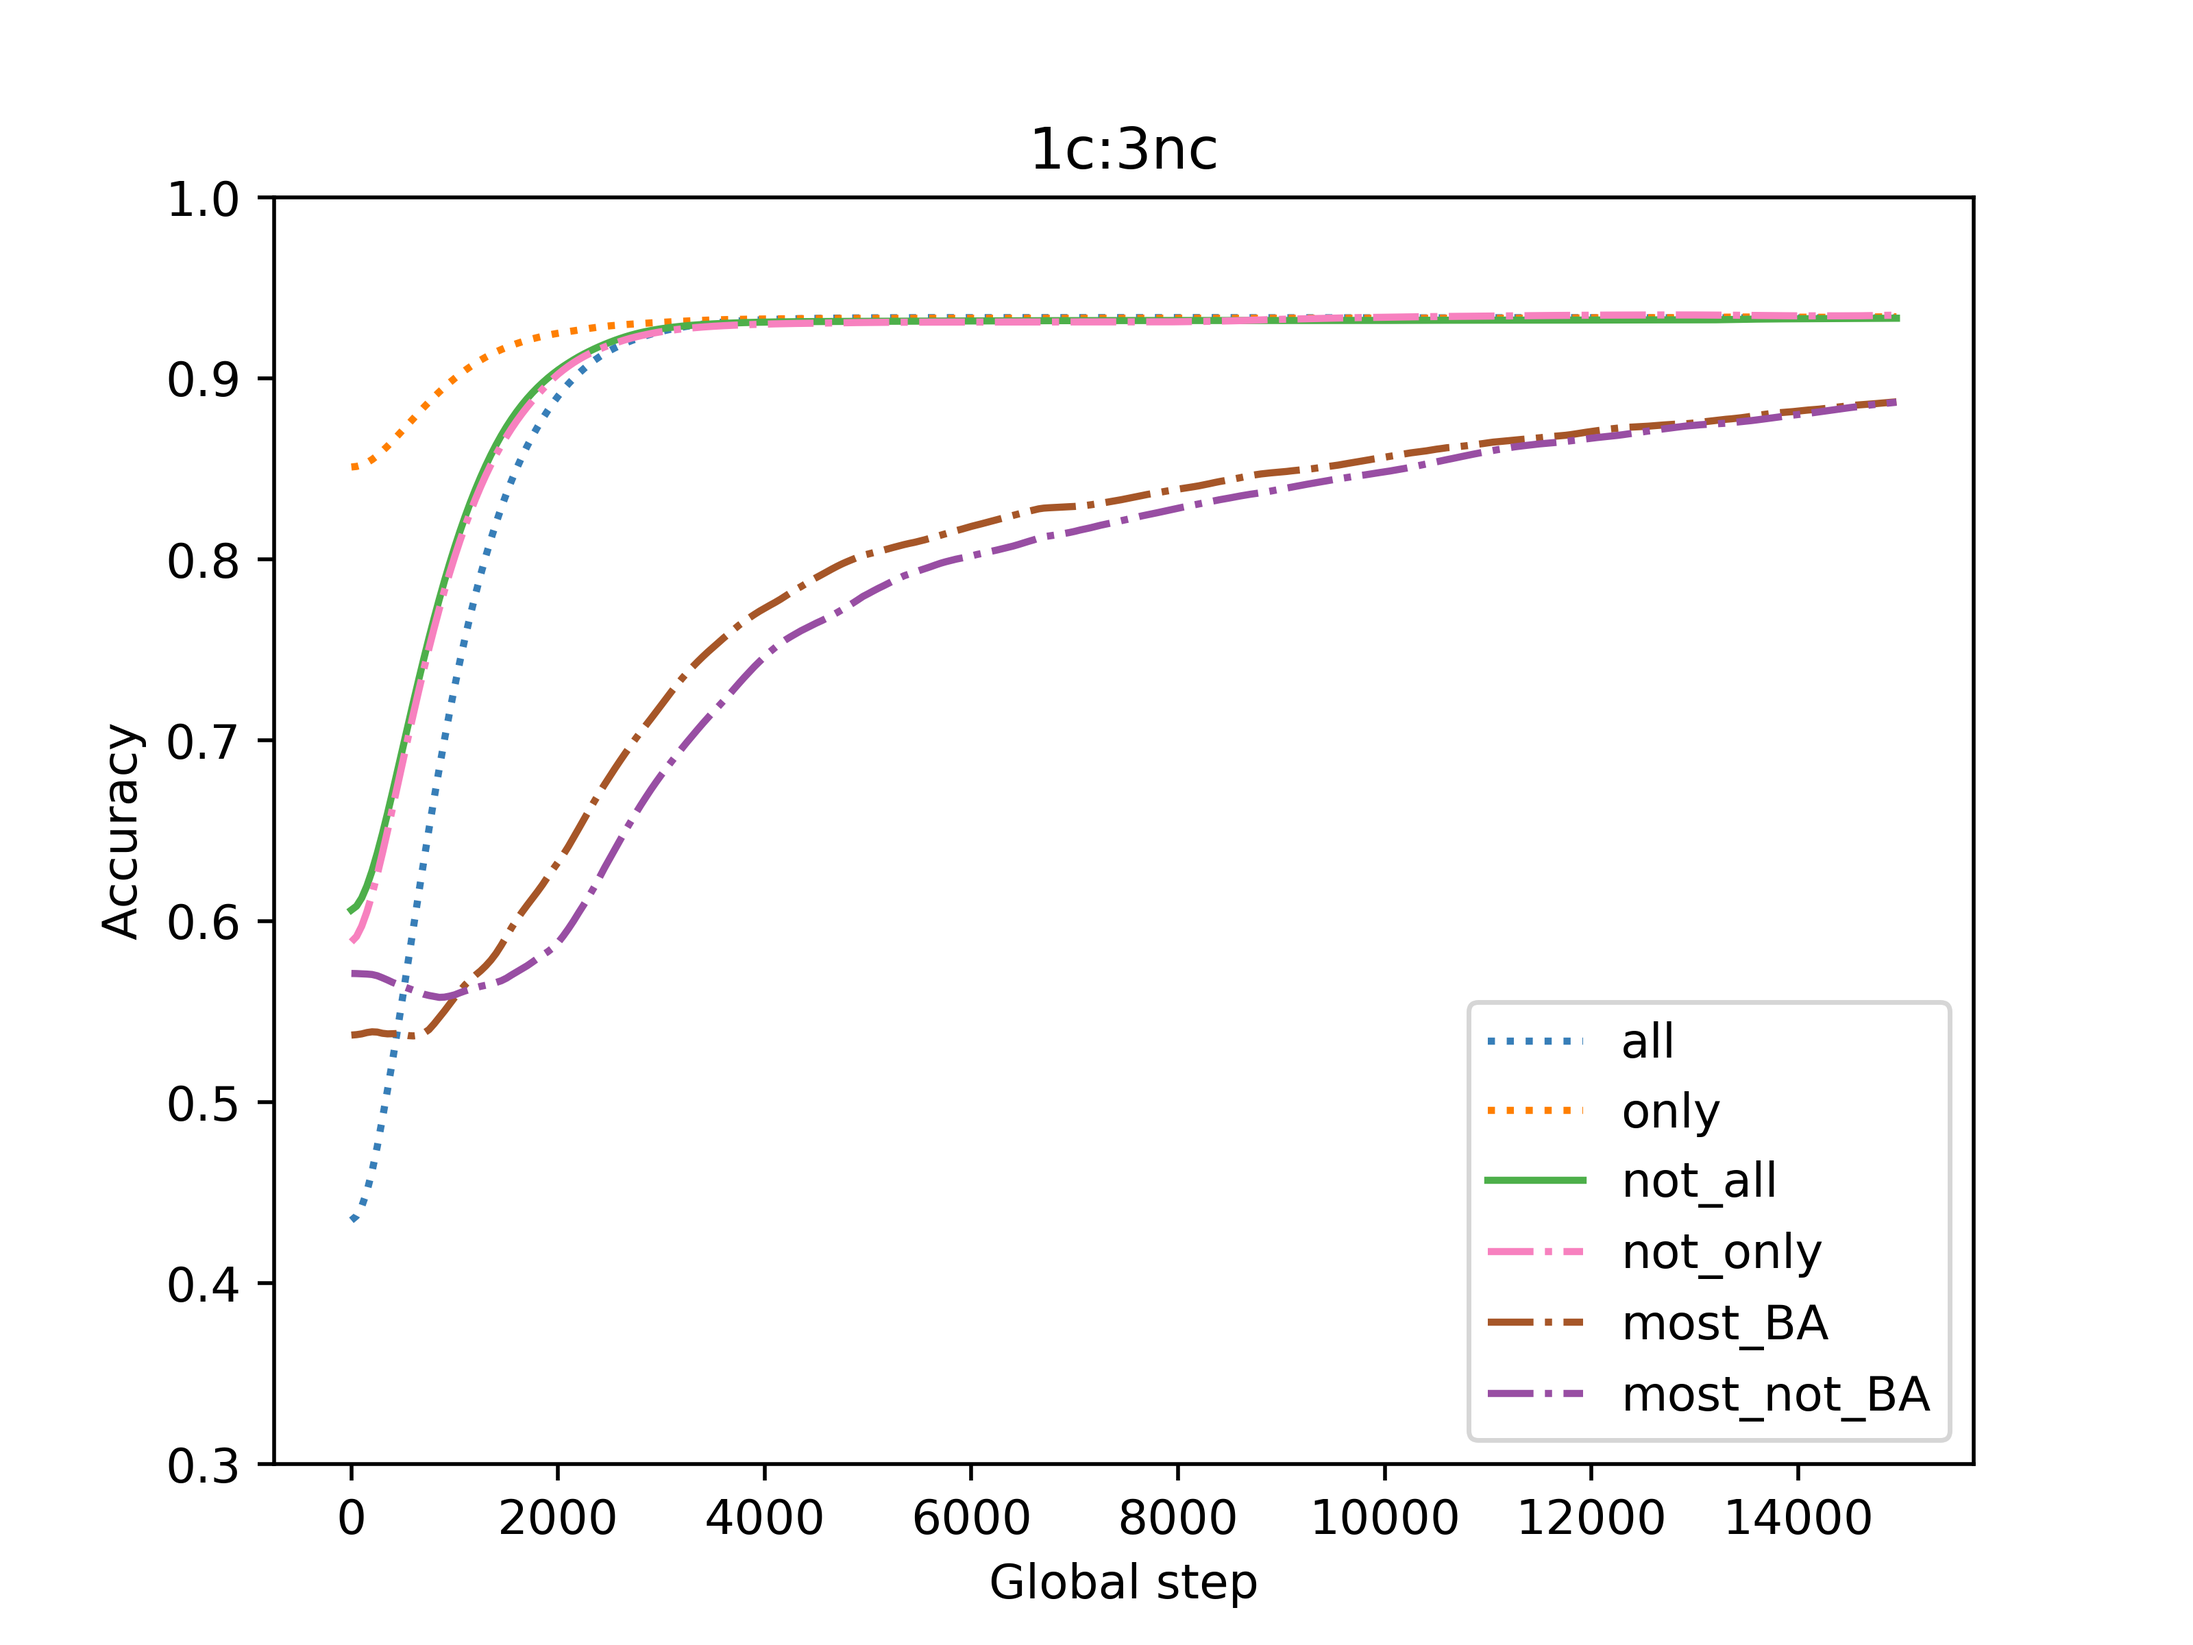
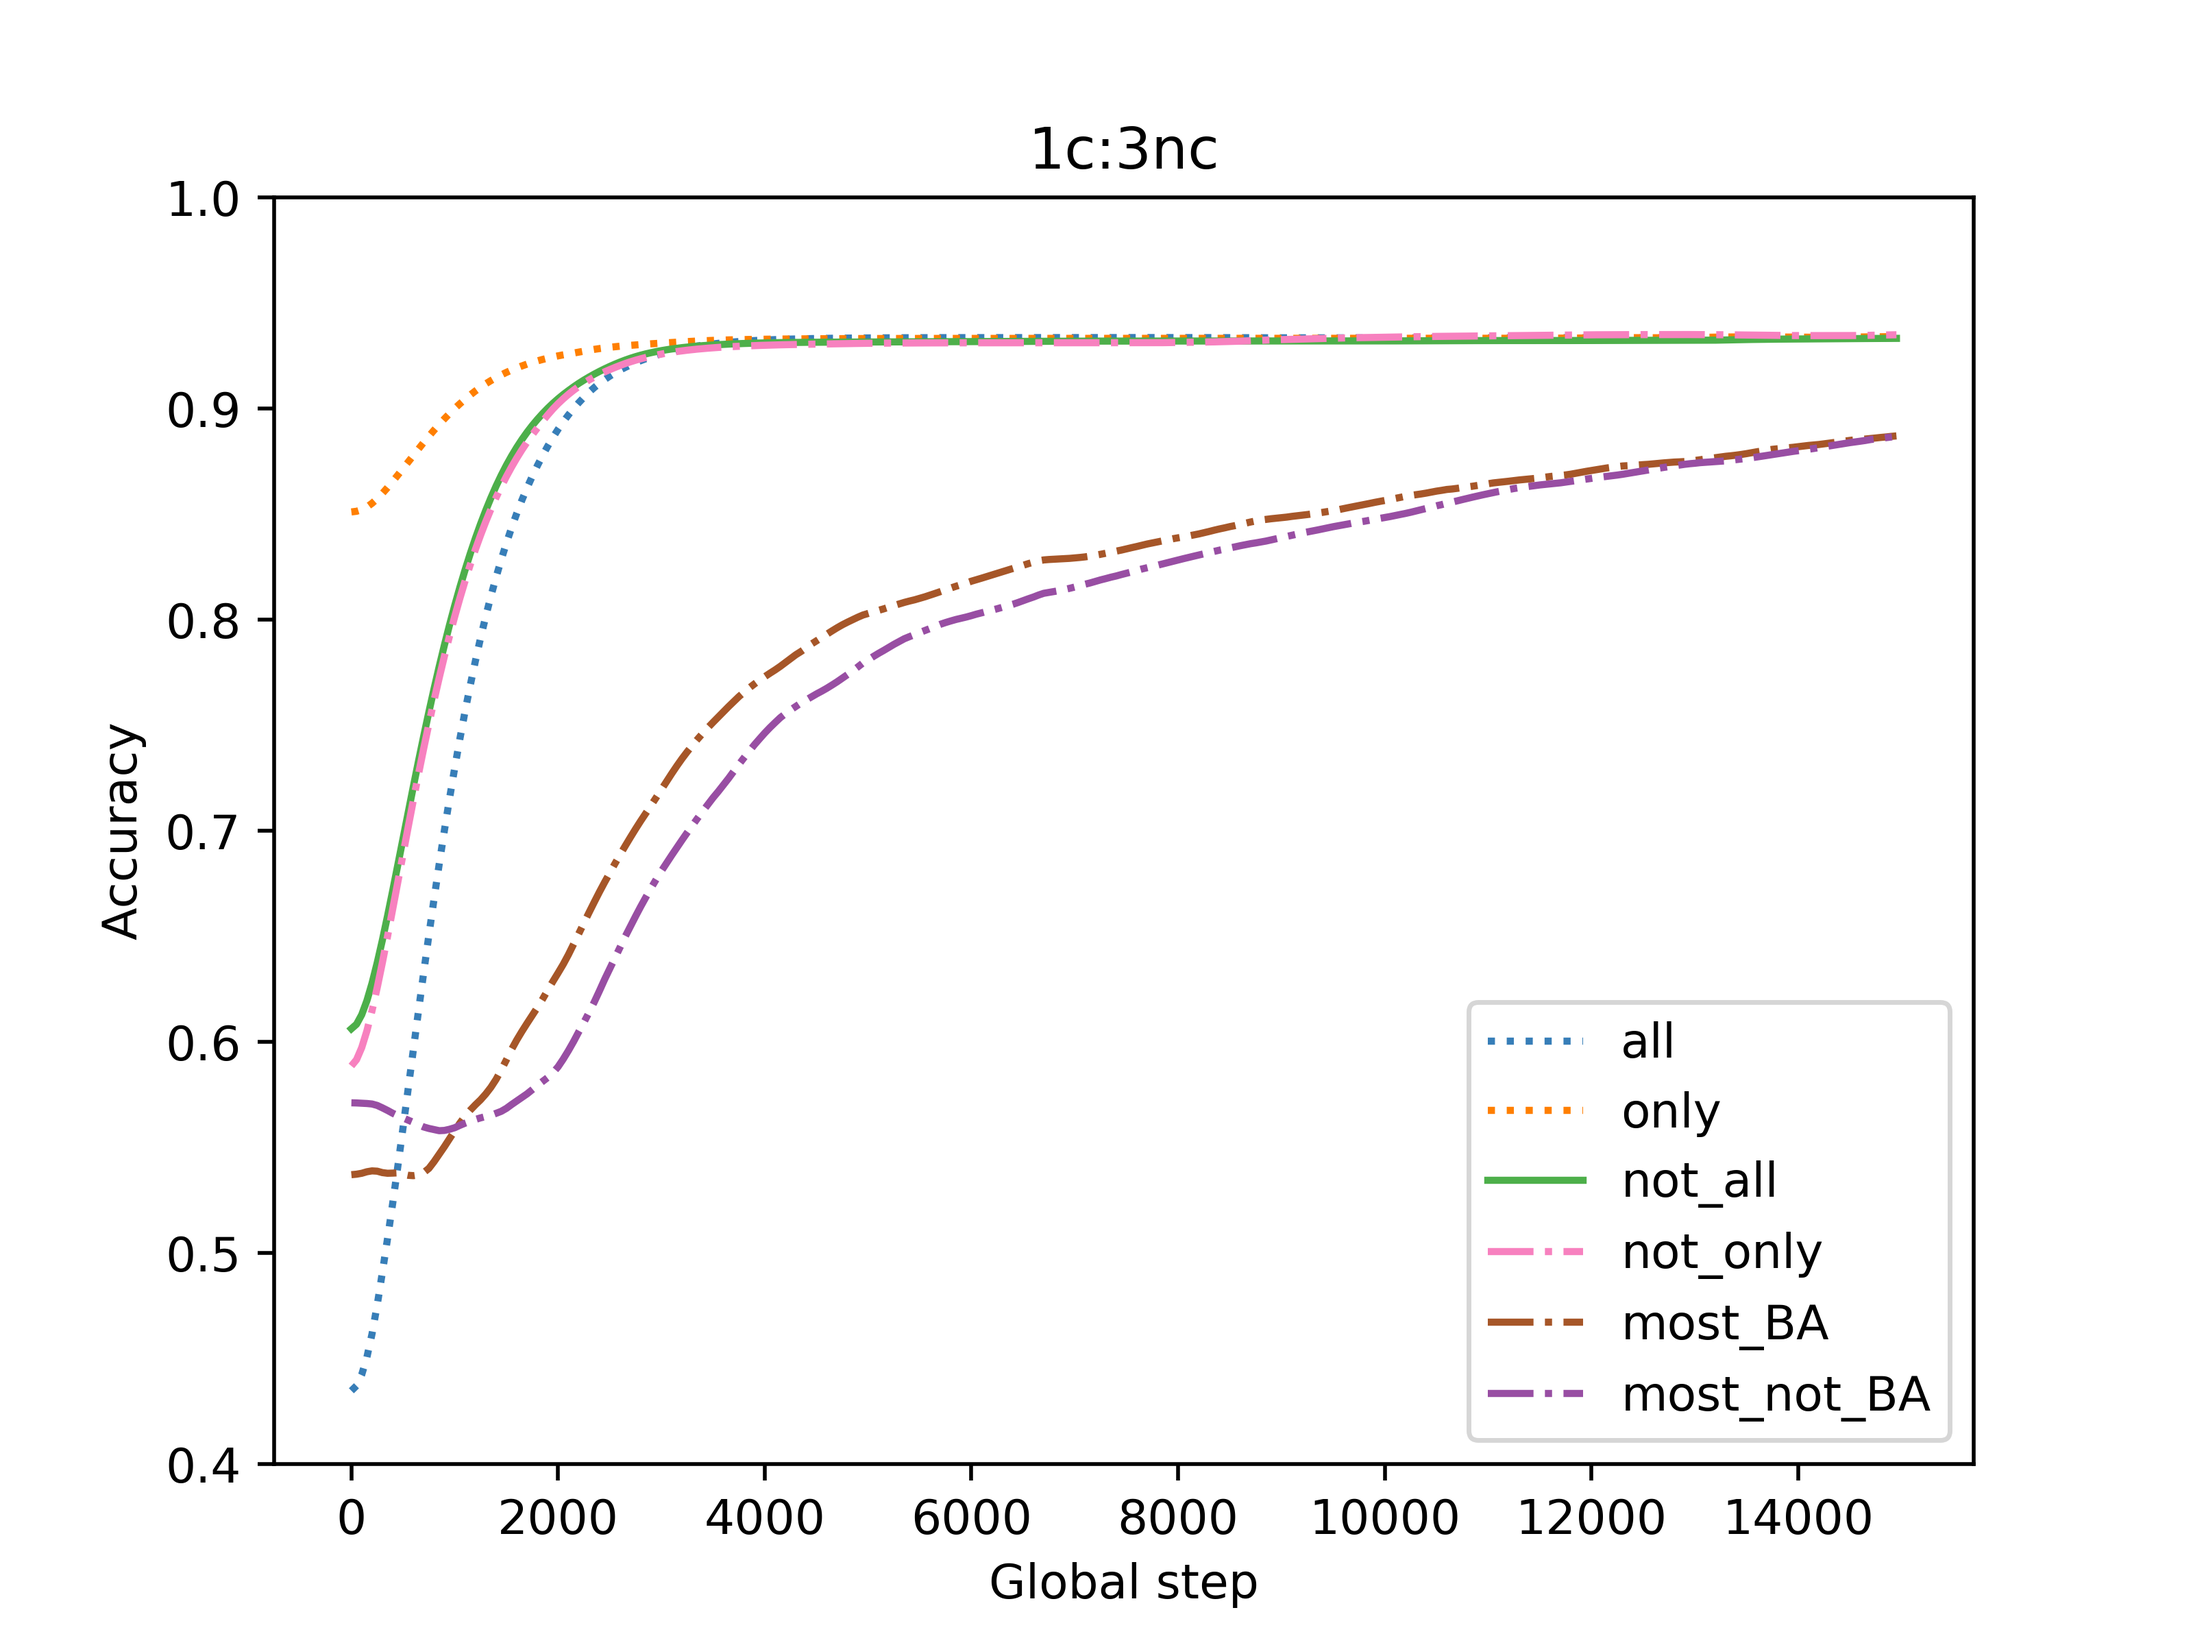
new plots, including median for test

diff --git a/analysis.py b/analysis.py
@@ -57,7 +57,7 @@ def experiment_analysis(path, quants, path_tosave, title, trials=range(30), plot
         # make plots
         # make_boxplots(convergence_points, quants)
         # make_barplots(convergence_points, quants)
-        make_plot(data, quants, path_tosave, title, ylim=(0.3, 1))
+        make_plot(data, quants, path_tosave, title, ylim=(0.4, 1))
 
     print(stats.ttest_rel(convergence_points[quants[0]],
                           convergence_points[quants[1]]))
@@ -310,10 +310,26 @@ def make_plot(data, quants, path_tosave, title, ylim=None, threshold=0.95):
                 steps,
                 trials_by_quant[idx][-1],
                 colors[idx],
-                label=quants[idx] if i == 0 else "",
+                # label=quants[idx] if i == 0 else "",
                 alpha=0.4,
                 linewidth=1,
             )
+
+    # plot median lines
+    medians_by_quant = [get_median_diff_lengths(trials_by_quant[idx])
+                        for idx in range(len(trials_by_quant))]
+    # get x-axis of longest trial
+    longest_x = get_max_steps(data)
+
+    for idx in range(len(quants)):
+        plt.plot(
+            longest_x,
+            smooth_data(medians_by_quant[idx]),
+            color=colors[idx],
+            label=quants[idx],
+            linewidth=2,
+        )
+
     plt.title(title)
     plt.legend(loc=4)
     plt.xlabel("Global step")
